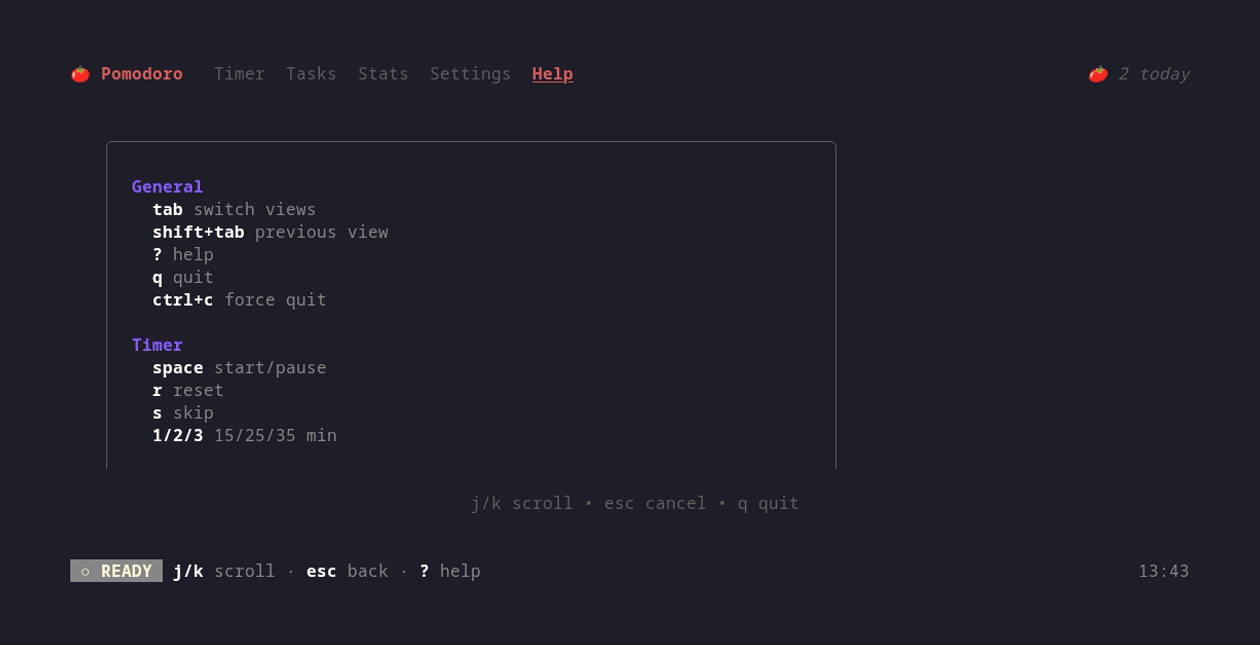
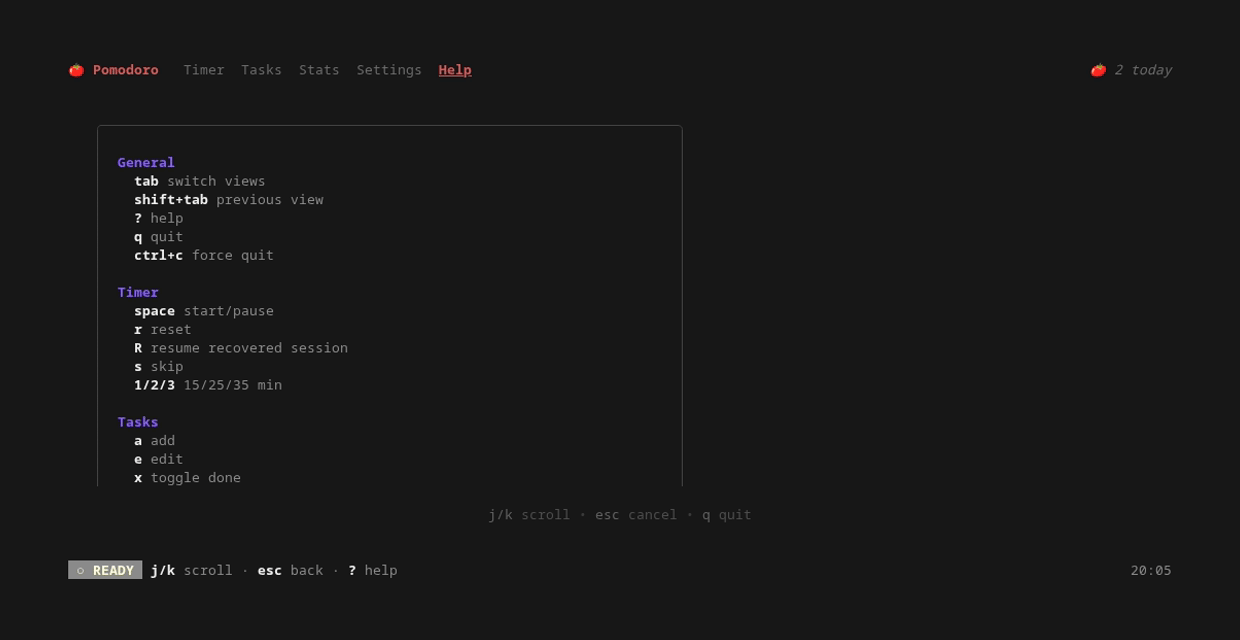
docs: refresh README screenshots for the v2 UI; snapshot resume; POMODORO_TAB
All seven screenshots regenerated against the v2 build with a seeded
ten-day history: timer ready/running (ring arc + progress bar via the
new snapshot resume), tasks with the new key hints, stats (streak card,
13-week heatmap, per-task focus), settings (hooks + mouse rows), help,
and the quit-confirmation modal.

Also:
- Resume now installs the persisted session as a snapshot
  (StartSessionFromSnapshot) so Duration/Elapsed/Remaining stay faithful
  — previously resuming passed Remaining as the duration, so the ring
  and progress bar started from ~0% instead of reflecting the original
  session's elapsed fraction (surfaced while capturing the running
  screenshot).
- Quit modal text updated to match Phase 3 semantics: quitting saves the
  session for resume instead of implying it is lost.
- POMODORO_TAB env var (dev/capture affordance) selects the initial tab,
  sidestepping vhs's unreliable Tab-key delivery to v2 programs.

diff --git a/src/services/concrete_timer_service.go b/src/services/concrete_timer_service.go
@@ -29,6 +29,11 @@ type TimerService interface {
 	// is baked into the session before any observer fires, so completion
 	// events always carry the attribution.
 	StartSessionForTask(taskID string, sessionType models.SessionType, duration time.Duration) error
+	// StartSessionFromSnapshot installs a previously persisted session
+	// (resume after quit/crash). Duration, Remaining and Elapsed are kept
+	// exactly as snapshotted so progress and stats reflect the original
+	// session.
+	StartSessionFromSnapshot(snapshot *models.TimerSession) error
 	PauseSession() error
 	ResumeSession() error
 	// SkipSession ends the current session now: it counts as completed (saved
@@ -117,6 +122,28 @@ func (t *ConcreteTimerService) StartSessionForTask(taskID string, sessionType mo
 	t.mu.Unlock()
 
 	notify(observers, func(o TimerObserver) { o.OnSessionStarted(session) })
+	return nil
+}
+
+// StartSessionFromSnapshot resumes a snapshotted session as-is.
+func (t *ConcreteTimerService) StartSessionFromSnapshot(snapshot *models.TimerSession) error {
+	if snapshot == nil {
+		return errors.New("snapshot is nil")
+	}
+	t.mu.Lock()
+	if t.currentSession != nil && t.currentSession.Status == models.Running {
+		t.mu.Unlock()
+		return errors.New("a session is already running")
+	}
+	resumed := *snapshot
+	resumed.Status = models.Running
+	t.currentSession = &resumed
+	t.ensureTicker()
+
+	observers := append([]TimerObserver(nil), t.observers...)
+	t.mu.Unlock()
+
+	notify(observers, func(o TimerObserver) { o.OnSessionStarted(&resumed) })
 	return nil
 }
 

diff --git a/src/views/app.go b/src/views/app.go
@@ -226,7 +226,7 @@ func NewModel(timer services.TimerService, store services.PersistenceService) Mo
 		timer:    timer,
 		store:    store,
 		events:   events.ch,
-		tab:      TabTimer,
+		tab:      initialTab(),
 		taskList: components.NewTaskList(),
 		addEst:   1,
 		clock:    time.Now(),
@@ -453,6 +453,21 @@ func (m *Model) writeStatusFile() {
 // showPendingToastMsg tells the first Update to surface toasts queued during
 // construction (Init cannot mutate the program's model directly).
 type showPendingToastMsg struct{}
+
+// initialTab resolves the POMODORO_TAB env override (default: timer).
+func initialTab() Tab {
+	switch os.Getenv("POMODORO_TAB") {
+	case "tasks":
+		return TabTasks
+	case "stats":
+		return TabStats
+	case "settings":
+		return TabSettings
+	case "help":
+		return TabHelp
+	}
+	return TabTimer
+}
 
 // Init starts the event bridge, the wall clock, and the pending-toast relay.
 func (m Model) Init() tea.Cmd {
@@ -1047,7 +1062,7 @@ func (m Model) handleTimerKey(key string) (tea.Model, tea.Cmd) {
 		if m.pendingResume != nil {
 			s := m.pendingResume
 			m.pendingResume = nil
-			err := m.timer.StartSessionForTask(s.TaskID, s.Type, s.Remaining)
+			err := m.timer.StartSessionFromSnapshot(s)
 			if err != nil {
 				return m, tea.Batch(m.errToast("resume session", err), waitForEvent(m.events))
 			}

diff --git a/src/views/root_view.go b/src/views/root_view.go
@@ -70,7 +70,7 @@ func (m Model) View() tea.View {
 	case m.confirmQuit:
 		body = m.renderConfirmModal(
 			"Session still running",
-			"Quit anyway? The session will not be recorded.",
+			"Quit anyway? The session is saved\nand can be resumed next launch.",
 			colorPaused,
 		)
 	case m.deleteArm:

diff --git a/cmd/main.go b/cmd/main.go
@@ -46,7 +46,7 @@ func setupLogging() {
 		return
 	}
 	l := clog.New(f)
-	l.SetLevel(clog.InfoLevel)
+	l.SetLevel(clog.DebugLevel)
 	l.SetReportTimestamp(false)
 	views.SetLogger(l)
 	components.SetLogger(l)
